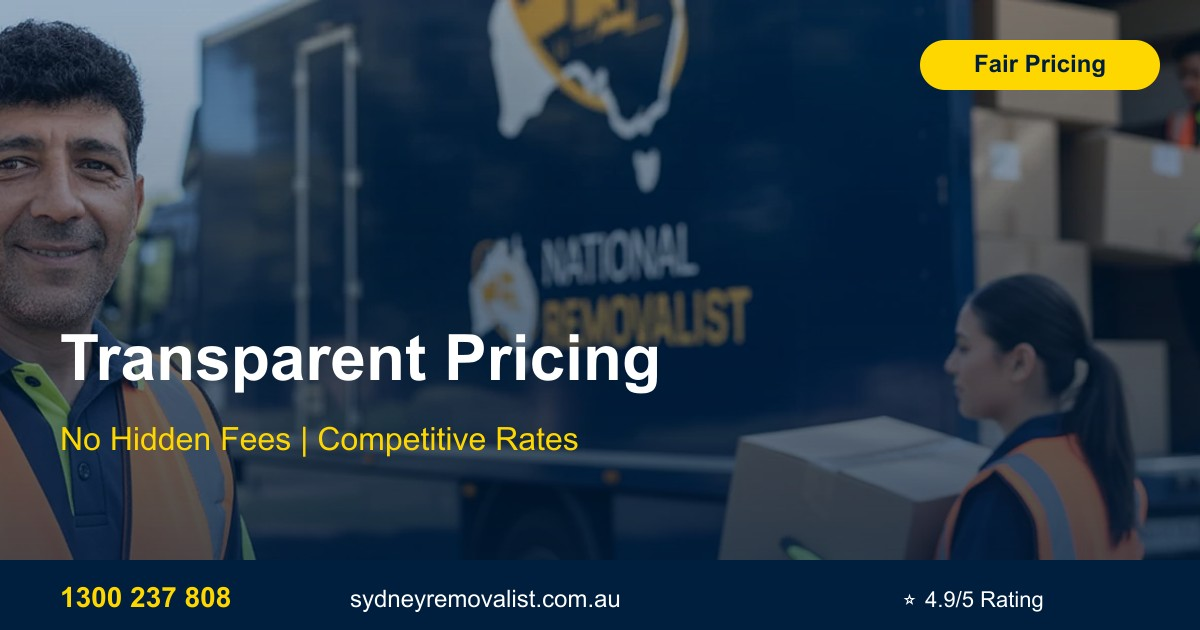
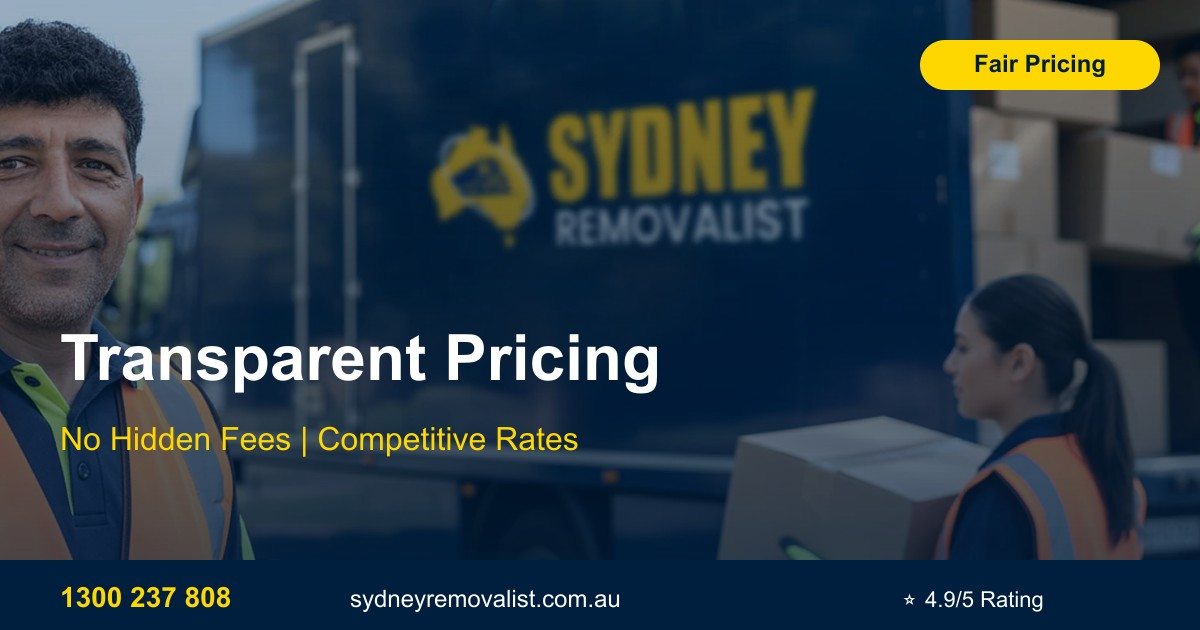
Update all OG images with Sydney Removalist branded backgrounds
Regenerated 13 Open Graph images using new Sydney Removalist branded photos:
- og-home.jpg (118 KB) - Updated with new branded removalist team image
- og-about.jpg (123 KB) - New team photo background
- og-services.jpg (113 KB) - Updated service image
- og-packing.jpg (110 KB) - New packing service image
- og-furniture.jpg (112 KB) - Updated furniture moving image
- og-interstate.jpg (118 KB) - New interstate truck image
- og-contact.jpg (90 KB) - Updated contact image
- og-residential.jpg (109 KB) - New residential moving image
- og-office.jpg (113 KB) - Updated office relocation image
- og-pricing.jpg (96 KB) - New pricing image
- og-locations.jpg (119 KB) - Updated locations image
- og-blog.jpg (106 KB) - New blog image (added)
- og-default.jpg (115 KB) - New default fallback image (added)

All images now use Sydney Removalist branded photos from the updated asset library
All images maintain proper text overlays, branding, and contact information
Ready for social media sharing with consistent Sydney Removalist branding

Changed region(s): [[0.3392, 0.0, 0.6783, 0.573]]

diff --git a/scripts/generate-og-images.js b/scripts/generate-og-images.js
@@ -214,6 +214,20 @@ async function generateAllOGImages() {
       title: 'Serving All Sydney Suburbs',
       subtitle: '64+ Locations Across Greater Sydney',
       badge: 'Local Experts'
+    },
+    {
+      sourceImage: '05.webp',
+      outputName: 'og-blog.jpg',
+      title: 'Moving Tips & Guides',
+      subtitle: 'Expert Advice from Sydney Removalists',
+      badge: 'Blog'
+    },
+    {
+      sourceImage: '02.webp',
+      outputName: 'og-default.jpg',
+      title: 'Sydney Removalists',
+      subtitle: 'Professional Moving Services | 15+ Years',
+      badge: 'Trusted'
     }
   ];
 
